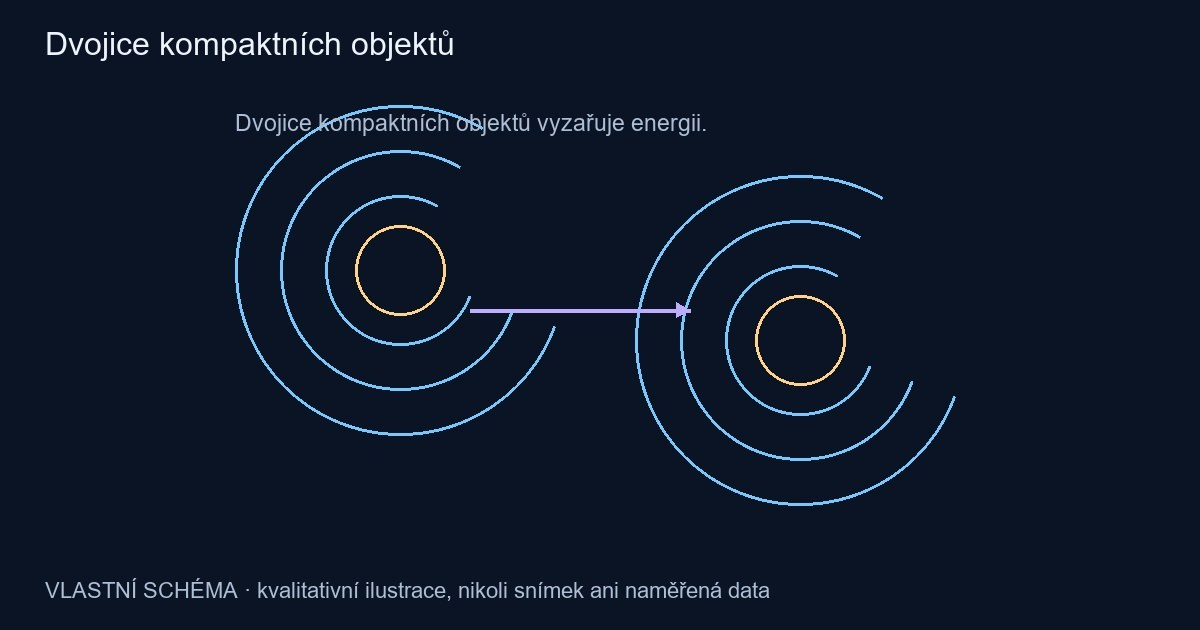
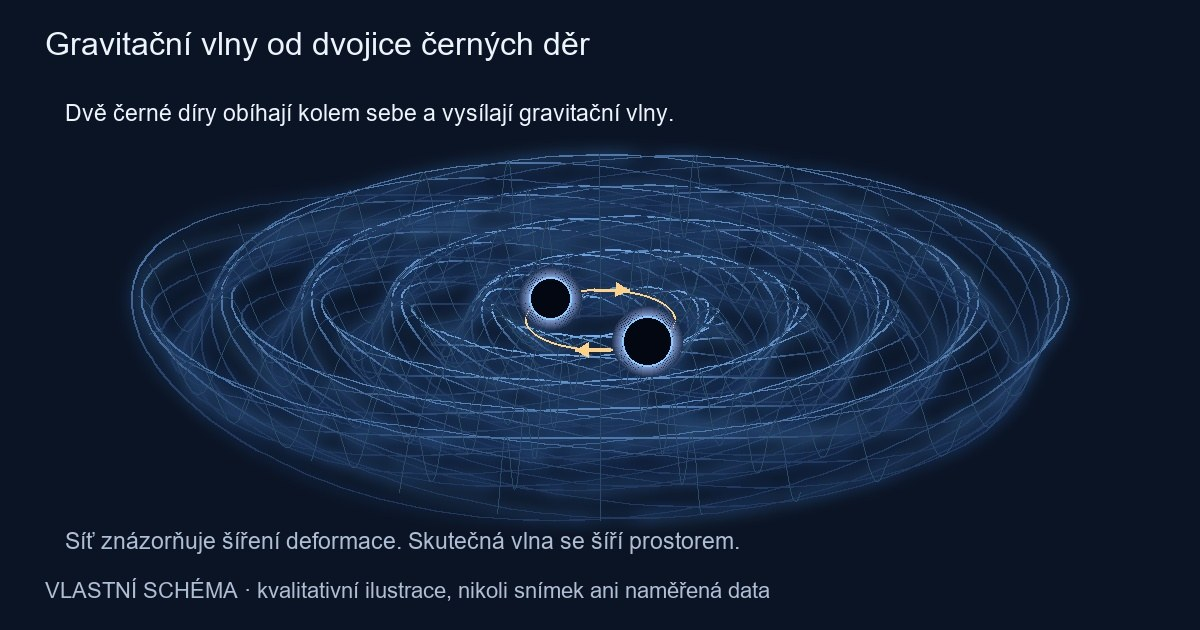
Add files via upload

diff --git a/tools/kosmopedie_diagrams.py b/tools/kosmopedie_diagrams.py
@@ -78,13 +78,30 @@ def diagram(entry):
         return batch5_diagram(entry)
     c = Canvas(entry['title']); k = entry['diagram']
     if k == 'edu-gw-stretch':
-        c.text(65, 90, 'Průchod vlny střídavě mění vzdálenosti volně se pohybujících částic.', WHITE, 24)
-        for cx, rx, ry, label in ((220, 92, 92, 'výchozí kruh'), (600, 145, 62, 'jedna fáze'), (980, 62, 145, 'opačná fáze')):
-            for n in range(20):
-                a = math.tau*n/20; c.circle(cx+rx*math.cos(a), 320+ry*math.sin(a), 6, GOLD, GOLD, 1)
-            c.text(cx-100, 490, label, MUTED, 23)
-        c.arrow(345, 320, 415, 320); c.arrow(780, 320, 850, 320)
-        c.text(70, 540, 'Pohled kolmo ke směru šíření; deformace je silně zvětšená.', MUTED, 22)
+        c.text(65, 90, 'Vlna střídavě prodlužuje vzdálenosti v jednom směru a zkracuje je v kolmém směru.', WHITE, 24)
+        c.arrow(130,170,1045,170,BLUE)
+        c.text(735,135,'směr šíření vlny',BLUE,22)
+        def section(cx,rx,ry,u,v):
+            return cx+rx*u,320+ry*v+0.30*rx*u
+        points=[]
+        for cx,rx,ry,label in ((220,92,92,'kruhový průřez'),(600,120,64,'jedna fáze'),(980,64,120,'opačná fáze')):
+            for v in (-.60,-.30,0,.30,.60):
+                u=math.sqrt(1-v*v)*.93
+                c.line([section(cx,rx,ry,-u,v),section(cx,rx,ry,u,v)],GRID,2)
+            for u in (-.60,-.30,0,.30,.60):
+                v=math.sqrt(1-u*u)*.93
+                c.line([section(cx,rx,ry,u,-v),section(cx,rx,ry,u,v)],GRID,2)
+            ring=[section(cx,rx,ry,math.cos(math.tau*n/80),math.sin(math.tau*n/80)) for n in range(81)]
+            points.append(ring)
+            c.line(ring,BLUE,2)
+            for x,y in ring[:-1:4]:
+                c.circle(x,y,6,GOLD,GOLD,1)
+            c.text(cx-100,490,label,MUTED,23)
+        for index in (0,20,40,60):
+            p=[ring[index] for ring in points]
+            for a,b in zip(p,p[1:]):
+                c.line([a,b],GRID,1)
+        c.text(70,540,'Tři řezy v témže okamžiku. Změny vzdáleností jsou silně zvětšené.',MUTED,22)
     elif k == 'edu-dark-comparison':
         for x, label, color in ((60, 'Temná hmota', BLUE), (650, 'Temná energie', VIOLET)):
             c.box(x, 100, x+490, 505, color)
@@ -123,16 +140,16 @@ def diagram(entry):
         c.text(460, 440, 'horký plyn', '#ffb39c', 25)
         c.paragraph(65, 505, 'Modře: hlavní koncentrace hmotnosti odvozené z čočkování. Ilustrace principu, nikoli mapa Bullet Clusteru.', 1060, MUTED, 21)
     elif k == 'edu-multimessenger':
-        c.text(65, 90, 'GW170817 · příchod signálů na Zemi · 17. srpna 2017', WHITE, 25)
+        c.text(65, 90, 'GW170817 · pořadí zachycení a objevu · 17. srpna 2017', WHITE, 25)
         for x, num, title, body, color in ((65,'1','Gravitační vlny','Splynutí neutronových hvězd',BLUE),
                                           (450,'2','Gama záblesk','Přibližně o 1,7 s později',GOLD),
-                                          (835,'3','Optický protějšek','Nalezen během dalších hodin',VIOLET)):
+                                          (835,'3','Optický protějšek','Objeven asi 11 hodin po signálu',VIOLET)):
             c.box(x, 200, x+300, 450, color)
             c.circle(x+45, 245, 23, color); c.text(x+37, 227, num, color, 27)
             c.paragraph(x+20, 300, title, 260, color, 26)
             c.paragraph(x+20, 365, body, 260, WHITE, 23)
         c.arrow(380, 320, 430, 320); c.arrow(765, 320, 815, 320)
-        c.text(65, 515, 'Časové rozestupy nejsou v měřítku; další pásma byla sledována i dny a týdny.', MUTED, 21)
+        c.text(65, 515, 'Časové rozestupy nejsou v měřítku. Pozorování pokračovala další dny a týdny.', MUTED, 21)
     elif k == 'edu-transit':
         c.text(65, 90, 'Planeta před hvězdou → malý opakovaný pokles jasnosti', WHITE, 25)
         for x, px, label in ((230,-100,'před přechodem'),(600,0,'během přechodu'),(970,100,'po přechodu')):
@@ -160,19 +177,22 @@ def diagram(entry):
         c.paragraph(795, 400, 'Odhad centrální hmotnosti', 310, VIOLET, 25)
         c.text(65, 530, 'Idealizovaná dráha, nikoli měření hvězdy S2; měřítko a projekce jsou zjednodušené.', MUTED, 21)
     elif k == 'edu-ligo-paths':
-        c.text(65, 90, 'Dvě kolmá ramena porovnávají návrat světelných vln.', WHITE, 25)
-        c.line([(365,190),(365,425),(950,425)], BLUE, 7)
-        c.d.rectangle((340,175,390,190),fill=GOLD);c.d.rectangle((950,400,965,450),fill=GOLD)
-        c.d.polygon([(350,425),(365,410),(380,425),(365,440)],fill=VIOLET)
-        c.arrow(105,425,335,425,GOLD);c.text(105,460,'laser',GOLD,24)
-        c.arrow(365,395,365,230,BLUE);c.arrow(380,240,380,395,VIOLET)
-        c.arrow(420,410,900,410,BLUE);c.arrow(895,440,420,440,VIOLET)
-        c.arrow(365,450,365,510,GREEN);c.box(310,510,420,550,GREEN)
-        c.text(445,515,'detektor změny interference',GREEN,23)
-        c.text(430,205,'zrcadlo na konci ramena',GOLD,23)
-        c.text(530,365,'zrcadlo',GOLD,23);c.arrow(635,380,945,410,GOLD,2)
-        c.text(60,160,'Dělič světla',VIOLET,24);c.arrow(220,185,350,410,VIOLET,2)
-        c.text(65,555,'Princip; optické dutiny a další zrcadla nejsou zakreslené.',MUTED,18)
+        c.text(65, 90, 'Fotodetektor měří interferenci světla z obou ramen.', WHITE, 25)
+        c.line([(540,175),(540,420),(785,420)], GRID, 6)
+        c.d.rectangle((514,162,566,175),fill=GOLD)
+        c.d.rectangle((785,394,798,446),fill=GOLD)
+        c.arrow(530,389,530,190,BLUE)
+        c.arrow(550,190,550,389,BLUE)
+        c.arrow(566,410,771,410,BLUE)
+        c.arrow(771,430,566,430,BLUE)
+        c.d.polygon([(524,420),(540,404),(556,420),(540,436)],fill=VIOLET)
+        c.arrow(148,420,518,420,GOLD);c.text(148,452,'laser',GOLD,24)
+        c.text(265,318,'dělič světla',VIOLET,24);c.arrow(398,345,525,408,VIOLET,2)
+        c.text(586,150,'zrcadlo',GOLD,23)
+        c.text(819,406,'zrcadlo',GOLD,23)
+        c.arrow(540,444,540,506,GREEN);c.box(485,506,595,546,GREEN)
+        c.text(622,511,'fotodetektor',GREEN,23)
+        c.text(65,555,'Princip: optické dutiny a další zrcadla nejsou zakreslené.',MUTED,18)
     elif k == 'edu-neutron-capture':
         for x, color, title in ((65,BLUE,'Záchyt neutronu'),(655,VIOLET,'Přeměna beta minus')):
             c.box(x,125,x+485,495,color);c.text(x+25,150,title,color,27)

diff --git a/tools/article_image_assets.py b/tools/article_image_assets.py
@@ -5,7 +5,7 @@ import math
 import textwrap
 import urllib.request
 from pathlib import Path
-from PIL import Image, ImageDraw, ImageOps
+from PIL import Image, ImageDraw, ImageOps, ImageFilter
 
 
 def font(size):
@@ -351,19 +351,52 @@ def diagram(entry):
         arrow(105,415,275,415,gold);circle(300,415,18,violet)
         text(90,465,'laser');text(350,150,'dvě kolmá ramena');text(575,455,'změna optických drah')
     elif kind=='chirp':
-        axes(xlabel='čas',ylabel='deformace')
+        axes(xlabel='čas',ylabel='poměrná změna délky')
         line([(150+i*2,310+(.06+i/500)**2*90*math.sin(i/20+i*i/1200)) for i in range(400)],blue)
-        text(320,125,'Před splynutím roste frekvence i amplituda.');text(200,490,'Ilustrační průběh; není záznam detektoru.')
+        text(320,125,'Před splynutím roste frekvence i amplituda.');text(200,490,'Ilustrační průběh bez měřítka.')
     elif kind=='gw-background':
-        axes(xlabel='frekvence',ylabel='hustota energie pozadí')
-        curve(lambda x:.15+.45*x,blue);curve(lambda x:.55*math.exp(-((x-.5)/.2)**2),gold)
-        text(240,110,'Možné příspěvky stochastického gravitačního pozadí')
-        text(220,490,'Kvalitativní modely; nikoli měření ani tepelné spektrum.')
+        text(65,110,'Slabé vlny z mnoha zdrojů se překrývají.',white)
+        waves=[lambda x: 22*math.sin(x/39),lambda x: 13*math.sin(x/17+1.2)]
+        for y,title,color,components in ((228,'Zdroj A',blue,waves[:1]),(327,'Zdroj B',gold,waves[1:]),(442,'Součet',violet,waves)):
+            text(65,y-14,title,color)
+            line([(245,y),(1090,y)],'#304e70',2)
+            line([(x,y-sum(f(x-245) for f in components)) for x in range(245,1091)],color,3)
+        text(1030,478,'čas')
+        text(65,520,'Názorný součet dvou vln. Skutečné pozadí může zahrnovat mnoho zdrojů.')
     elif kind=='binary':
-        for cx,cy in ((400,270),(800,340)):
-            circle(cx,cy,45,gold)
-            for r in (75,120,165): d.arc((cx-r,cy-r,cx+r,cy+r),20,300,fill=blue,width=3)
-        text(235,110,'Dvojice kompaktních objektů vyzařuje energii.');arrow(470,310,690,310,violet)
+        text(65,100,'Dvě černé díry obíhají kolem sebe a vysílají gravitační vlny.',white)
+        cx,cy=600,330
+        def mesh(r,a):
+            phase=r/14-2*a
+            h=34*(1-math.exp(-r/100))*math.sin(phase)
+            return (cx+r*math.cos(a),cy+.34*r*math.sin(a)-h)
+        glow=Image.new('RGB',im.size)
+        gd=ImageDraw.Draw(glow)
+        for r in range(58,470,10):
+            pts=[mesh(r,math.tau*i/192) for i in range(193)]
+            gd.line(pts,fill=(14,36,73) if r%40!=18 else (43,89,140),width=4)
+        from PIL import ImageChops
+        im=ImageChops.screen(im,glow.filter(ImageFilter.GaussianBlur(7)))
+        d=ImageDraw.Draw(im)
+        for r in range(58,470,10):
+            pts=[mesh(r,math.tau*i/192) for i in range(193)]
+            for i in range(192):
+                a=math.tau*i/192
+                q=(.5+.5*math.sin(r/14-2*a))**4*(1-.56*r/470)
+                color=(int(33+93*q),int(57+130*q),int(96+155*q))
+                d.line(pts[i:i+2],fill=color,width=2)
+        for i in range(28):
+            a=math.tau*i/28
+            line([mesh(r,a) for r in range(62,465,5)],'#2b4a68',1)
+        d.ellipse((525,289,675,350),outline=gold,width=2)
+        arrow(594,289,629,290,gold)
+        arrow(610,350,575,350,gold)
+        for x,y,r in ((550,298,21),(647,341,25)):
+            for rr in range(r+10,r,-1):
+                q=(r+11-rr)/10
+                d.ellipse((x-rr,y-rr,x+rr,y+rr),outline=(int(28+98*q),int(43+108*q),int(72+132*q)))
+            d.ellipse((x-r,y-r,x+r,y+r),fill='#030711',outline='#8acaff',width=2)
+        text(65,528,'Síť znázorňuje šíření deformace. Skutečná vlna se šíří prostorem.')
     elif kind=='polarization':
         for cx,cy,s in ((350,300,1),(850,300,-1)):
             circle(cx,cy,130)
